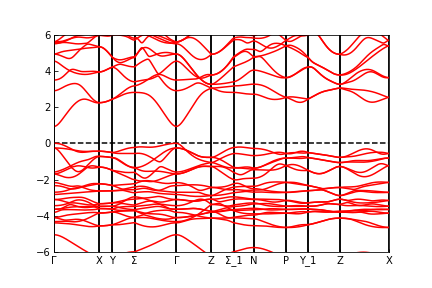
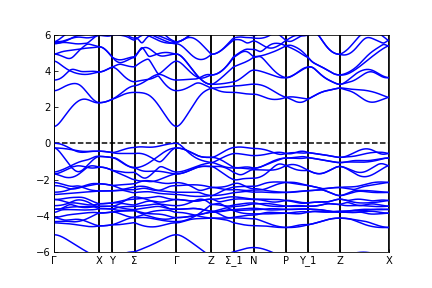
change color to blue

diff --git a/abinit-band/plot_band.py b/abinit-band/plot_band.py
@@ -21,7 +21,7 @@ E_k = np.array(E_k).T - 0.41633 * 27.2113845 *0
 
 for Ei in E_k:
     # plt.plot(Ei + 0.14101 * 27.211 * 0.7, c='r') # graphene
-    plt.plot(Ei - 0.14287 * 27.211, c='r') # AgGaS2
+    plt.plot(Ei - 0.14287 * 27.211, c='b') # AgGaS2
 plt.ylim(-6,6)
 plt.xlim(0,nkpts-1)
 plt.hlines(0,xmin = 0, xmax = nkpts - 1, colors = 'k', linestyles='--')
@@ -35,7 +35,6 @@ for idx, line in enumerate(info):
         if not 'type' in line:
             highsymk = int(line.split()[3])
             for i in range(highsymk):
-                print(idx)
                 xtick_list.append(int(info[idx+1+i].split()[5]))
 xtick_list.append(nkpts)
 # kpath = [chr(915), 'K', 'M', chr(915)] # kpath for graphene
